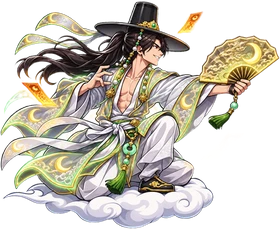
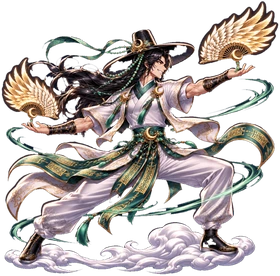
한별 각성 게임 그림 aw0p 극화체로 교체
Claude-Session: https://claude.ai/code/session_01X3WCR5nTXLkTaQuYbPMPiQ

diff --git a/game-design/art/한별각성/README.md b/game-design/art/한별각성/README.md
@@ -10,3 +10,4 @@
 | 보조(1.5초) | 부적 4장이 날아가 적에 붙어 터짐 |
 | 스킬 | 쌍회오리: 회오리 둘이 위아래로 굴러가며 끌어모음 |
 | 끝 | 쌍선을 접어 하나로 → 화면 가로 큰 바람 일섬 |
+- `aw0p_hi` / 게임 `../게임용/aw0p.webp`(280×276): 각성 게임 그림(이전 aw0p 교체), 사용자 확정. job 5ddc6547-b29c-42bf-adac-b044ec30694e. 구름 위 낮게 넓은 자세, 양 손바닥 위 날개 부채.

diff --git a/game-design/00_결정사항.md b/game-design/00_결정사항.md
@@ -188,3 +188,4 @@
 | 2026-11-22 | 한별 원본(hc0x·hp0) 달빛 극화체로 다시 그림, 옷 입힘. art/한별/ |
 | 2026-11-22 | 한별 원본 hp0·hc0x 달빛 극화체로 교체(부채 손바닥 위에 떠 있음). 기본 탄·발사 빛을 손 위치에서 나가게 조정 |
 | 2026-11-22 | 한별 각성 일러스트 A1(쌍선, 극화체) 확정 → 게임 aw0 교체 |
+| 2026-11-22 | 한별 각성 게임 그림 aw0p 극화체로 교체 |
